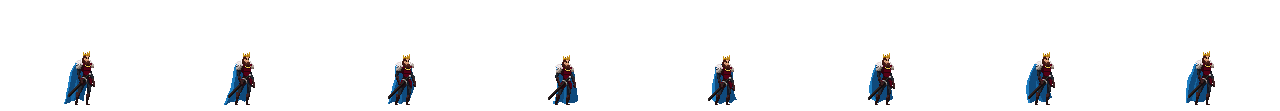
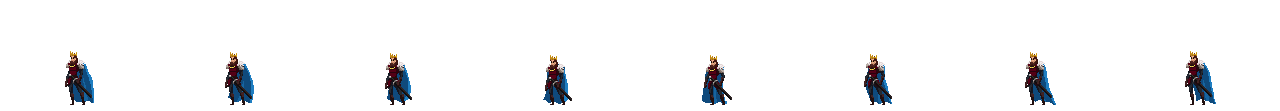
Update Game

diff --git a/index.js b/index.js
@@ -40,7 +40,7 @@ const player = new Fighter({
     //scale: 2.5,
     scale: 2.3,
     offset: {
-        x: 215,
+        x: 100,
         //y: 157
         y: 230
     },
@@ -107,57 +107,57 @@ const enemy = new Fighter({
        offset: {
         x: -50, y: 0
     },
-    imageSrc: '/img/medivalKnight/Idle.png',
-    //imageSrc: './img/kenji/Idle.png',
-        framesMax: 8,
-        //framesMax: 4,
+    //imageSrc: '/img/medivalKnight/Idle.png',
+    imageSrc: './img/kenji/Idle.png',
+        //framesMax: 8,
+        framesMax: 4,
         scale: 2.5,
         offset: {
-            x: 215,
+            x: -200,
             y: 167
         },
         sprites: {
             idle: {
-                imageSrc: '/img/medivalKnight/Idle.png',
-                //imageSrc: './img/kenji/Idle.png',
-                framesMax: 8
-                //framesMax: 4
+                //imageSrc: '/img/medivalKnight/Idle.png',
+                imageSrc: './img/kenji/Idle.png',
+                //framesMax: 8
+                framesMax: 4
             },
             run: {
-                imageSrc: './img/medivalKnight/Run.png',
-                //imageSrc: './img/kenji/Run.png',
-                framesMax: 8
+                //imageSrc: './img/medivalKnight/Run.png',
+                imageSrc: './img/kenji/Run.png',
                 //framesMax: 8
+                framesMax: 8
             },
             jump: {
-                imageSrc: './img/medivalKnight/Jump.png',
-                //imageSrc: './img/kenji/Jump.png',
-                framesMax: 2
+                //imageSrc: './img/medivalKnight/Jump.png',
+                imageSrc: './img/kenji/Jump.png',
                 //framesMax: 2
+                framesMax: 2
             },
             fall: {
-                imageSrc: './img/medivalKnight/Fall.png',
-                //imageSrc: './img/kenji/Fall.png',
-                framesMax: 2
+                //imageSrc: './img/medivalKnight/Fall.png',
+                imageSrc: './img/kenji/Fall.png',
                 //framesMax: 2
+                framesMax: 2
             },
             attack1: {
-                imageSrc: './img/medivalKnight/Attack1.png',
-                //: './img/kenji/Attack1.png',
-                framesMax: 4
+                //imageSrc: './img/medivalKnight/Attack1.png',
+                imageSrc: './img/kenji/Attack1.png',
                 //framesMax: 4
+                framesMax: 4
             },
             takeHit: {
-                imageSrc: './img/medivalKnight/Take Hit.png',
-                //imageSrc: './img/kenji/Take hit.png',
-                framesMax: 4
-                //framesMax: 3d
+                //imageSrc: './img/medivalKnight/Take Hit.png',
+                imageSrc: './img/kenji/Take hit.png',
+                //framesMax: 4
+                framesMax: 3
             },
             death: {
-                imageSrc: './img/medivalKnight/Death.png',
-                //imageSrc: './img/kenji/Death.png',
-                framesMax: 6
-                //framesMax: 7
+                //imageSrc: './img/medivalKnight/Death.png',
+                imageSrc: './img/kenji/Death.png',
+                //framesMax: 6
+                framesMax: 7
             }
         },
          attackBox: {
